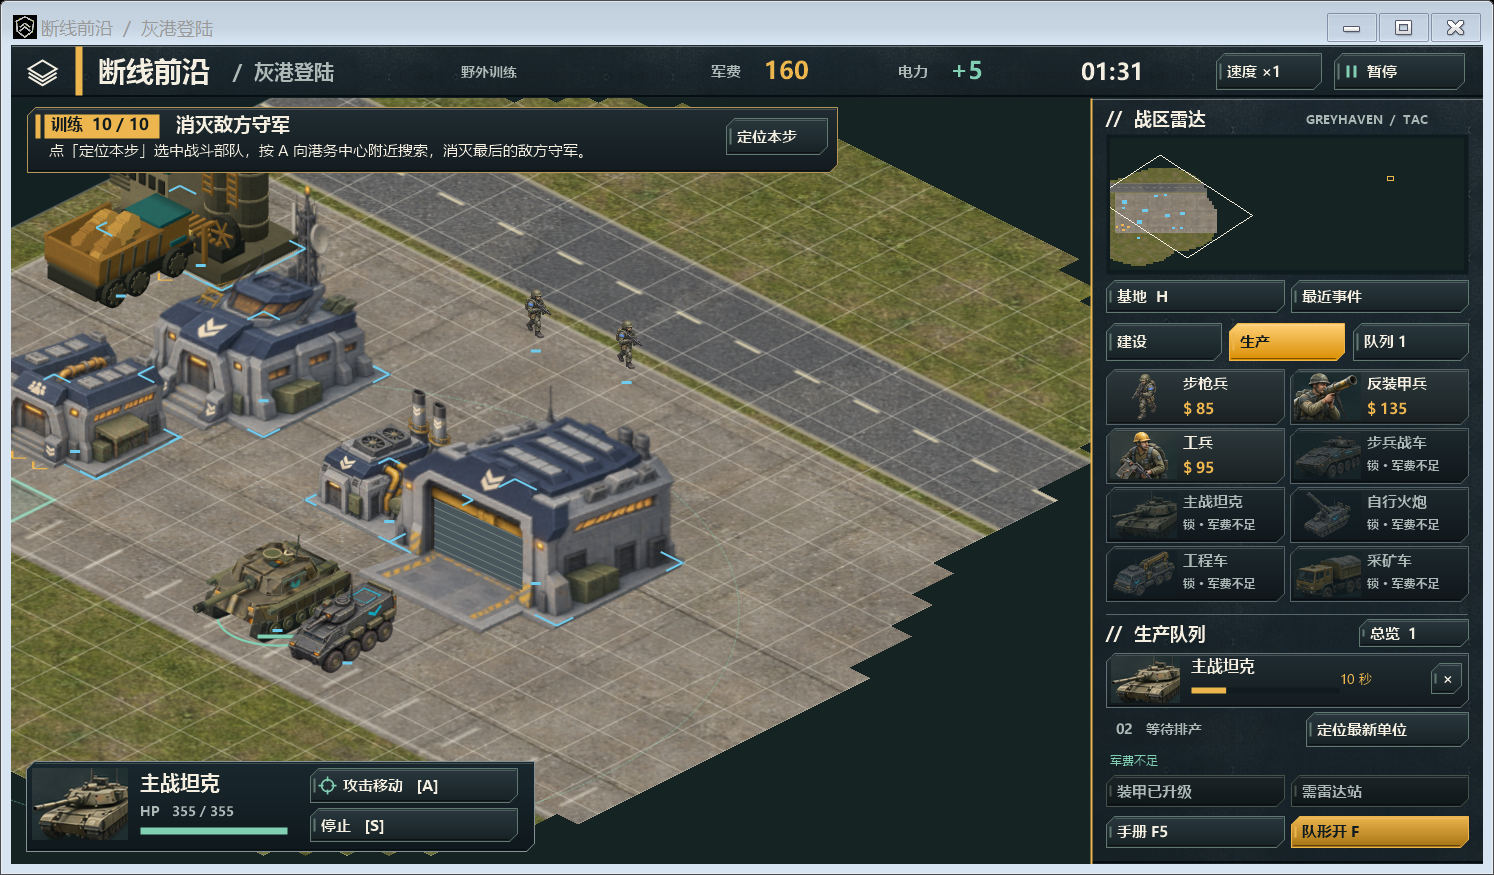
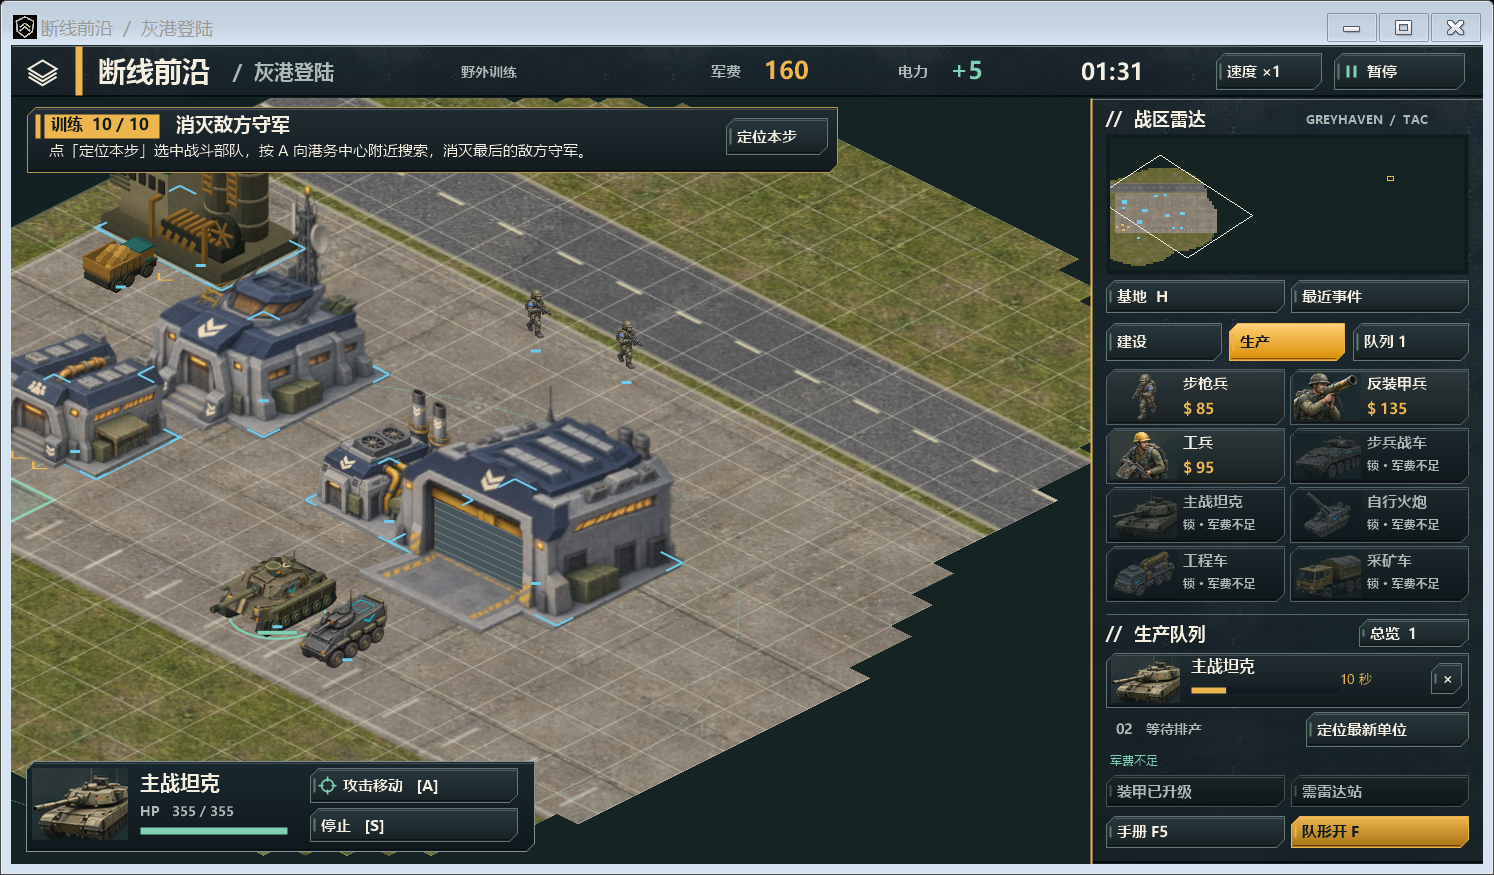
缩小矿车及装甲车辆，修复密集矿区反复绕车停滞

Changed region(s): [[0.1232, 0.6171, 0.2771, 0.7714], [0.0308, 0.216, 0.1539, 0.3703]]

diff --git a/src/Campaign.cs b/src/Campaign.cs
@@ -7,6 +7,7 @@ namespace Greyhaven {
 public class TypeInfo {
  public string Key,Name,Producer; public int Price,Hp,Hit,Range,Size; public float Speed,Seconds,Reload;
  public float LockRange {get{return Hit==0?0:Building?Range:Range+3*Campaign.Tile;}}
+ public float Clearance {get{return Foot?5:Key=="miner"?5.25f:8.8f;}}
  public bool Building {get{return Speed==0;}} public bool Foot {get{return Key=="squad"||Key=="at"||Key=="engineer";}}
  public TypeInfo(string key,string name,string from,int price,int hp,int hit,int range,int size,float speed,float time,float reload){
   Key=key;Name=name;Producer=from;Price=price;Hp=hp;Hit=hit;Range=range;Size=size;Speed=speed;Seconds=time;Reload=reload;
@@ -41,12 +42,12 @@ public partial class Campaign {
   new TypeInfo("squad","步枪兵","barracks",85,110,10,73,58,32,5,1.25f),
   new TypeInfo("at","反装甲兵","barracks",135,85,30,115,61,29,8,2.5f),
   new TypeInfo("engineer","工兵","barracks",95,90,0,0,58,34,6,1),
-  new TypeInfo("ifv","步兵战车","factory",185,210,16,96,82,45,8,1.3f),
-  new TypeInfo("tank","主战坦克","factory",290,355,38,115,94,36,12,2),
-  new TypeInfo("arty","自行火炮","factory",315,150,54,222,87,31,13,3.5f),
-  new TypeInfo("mcv","工程车","hq",340,290,0,0,91,31,13,0),
+  new TypeInfo("ifv","步兵战车","factory",185,210,16,96,66,45,8,1.3f),
+  new TypeInfo("tank","主战坦克","factory",290,355,38,115,75,36,12,2),
+  new TypeInfo("arty","自行火炮","factory",315,150,54,222,70,31,13,3.5f),
+  new TypeInfo("mcv","工程车","hq",340,290,0,0,73,31,13,0),
   new TypeInfo("refinery","矿石精炼厂","hq",390,720,0,0,136,0,9,0),
-  new TypeInfo("miner","采矿车","factory",195,310,0,0,89,38,9,0)};
+  new TypeInfo("miner","采矿车","factory",195,310,0,0,44,38,9,0)};
  public static TypeInfo Info(string k){return Array.Find(Types,t=>t.Key==k);}
  public readonly List<Piece> Units=new List<Piece>();public readonly List<Shot> Shots=new List<Shot>();
  public readonly Site[] Sites={new Site("港务中心",1330,292,1265,227)};
@@ -126,11 +127,14 @@ public partial class Campaign {
  }
  public void Load(Piece car){
   if(car==null||car.T.Key!="ifv"||!car.Alive)return;var cargo=Units.FirstOrDefault(o=>o.Alive&&o.Carrier==car);
-  if(cargo!=null){PointF drop;if(Exit(car,out drop)){cargo.Carrier=null;cargo.P=drop;Radio="步兵已下车。";}else Radio="周围缺少下车空间。";return;}
+  if(cargo!=null){PointF drop;if(Exit(car,cargo.T,out drop)){cargo.Carrier=null;cargo.P=drop;Radio="步兵已下车。";}else Radio="周围缺少下车空间。";return;}
   var foot=Live(car.Side).Where(o=>o.T.Foot&&Dist(o.P,car.P)<70).OrderBy(o=>Dist(o.P,car.P)).FirstOrDefault();
   if(foot==null){Radio="先把一名步兵移到战车旁。";return;}Halt(foot);foot.Carrier=car;Radio=foot.T.Name+"已登车。";
  }
- bool Exit(Piece o,out PointF p){
+ bool ExitClear(Piece source,TypeInfo exiting,PointF point){
+  return !Blocked(point,exiting.Clearance,null)&&!Units.Any(u=>u!=source&&u.Deployed&&!u.T.Building&&Dist(u.P,point)<exiting.Clearance+u.T.Clearance);
+ }
+ bool Exit(Piece o,TypeInfo exiting,out PointF p){
   if(o.T.Key=="barracks"&&o.Berths.Count>0){
    p=o.Berths[0];if(BerthClear(o,p))return true;
    var alt=FreeBerth(o);if(alt.HasValue){p=alt.Value;o.Berths[0]=p;return true;}
@@ -139,12 +143,12 @@ public partial class Campaign {
   if(o.T.Building){
    var gate=Gate(Footprint(o.T,o.P));foreach(float offset in new[]{0f,-.31f,.31f}){
     var candidate=new PointF(o.P.X+gate.Width*offset,gate.Bottom-6);
-    if(!Blocked(candidate,11,null)&&!Units.Any(u=>u!=o&&u.Deployed&&!u.T.Building&&Dist(u.P,candidate)<17)){p=candidate;return true;}
+    if(ExitClear(o,exiting,candidate)){p=candidate;return true;}
    }p=o.P;return false;
   }
   for(int j=0;j<24;j++){double a=(o.Dir+j%8*2)*Math.PI/8;float d=(o.T.Building?Radius(o.T)+20:27)+j/8*19;
    p=new PointF(o.P.X+(float)Math.Sin(a)*d,o.P.Y+(float)Math.Cos(a)*d*.85f);
-   var candidate=p;if(!Blocked(candidate,11,null)&&!Units.Any(u=>u!=o&&u.Deployed&&!u.T.Building&&Dist(u.P,candidate)<14))return true;
+   var candidate=p;if(ExitClear(o,exiting,candidate))return true;
   }p=o.P;return false;
  }
  void Kill(Piece o){if(o.T.Building)Changed();o.Hp=0;o.Path.Clear();o.Queue.Clear();o.Berths.Clear();foreach(var c in Units.Where(c=>c.Carrier==o)){c.Carrier=null;c.P=o.P;c.Hp=0;}
@@ -184,7 +188,7 @@ public partial class Campaign {
   if(o.T.Key=="refinery")RunRefinery(o,dt);
   if(o.Mining)RunMiner(o,dt);
   if(o.Queue.Count>0){var t=o.Queue.Peek();o.Work=Math.Min(t.Seconds,o.Work+dt*(powered?1:.45f));
-   if(o.Work>=t.Seconds){PointF p;if(Exit(o,out p)){var u=Spawn(t.Key,o.Side,p.X,p.Y);u.Dir=o.Dir;u.Turn=o.Dir;u.Rollout=.6f;o.Door=1;o.Work=0;o.Queue.Dequeue();if(o.Berths.Count>0)o.Berths.RemoveAt(0);if(u.T.Key!="miner")RallyNewUnit(o,u);if(o.Side==0){LastReady=u;ReadyAt=Time;if(Time-lastStrike>3)SetEvent(u.P,u.T.Name+"出列");if(t.Key=="squad")InfantryDelivered++;if(t.Key=="ifv")VehiclesDelivered++;Radio=t.Name+"已从"+o.T.Name+" #"+o.Id+" 出列。";}}}}
+   if(o.Work>=t.Seconds){PointF p;if(Exit(o,t,out p)){var u=Spawn(t.Key,o.Side,p.X,p.Y);u.Dir=o.Dir;u.Turn=o.Dir;u.Rollout=.6f;o.Door=1;o.Work=0;o.Queue.Dequeue();if(o.Berths.Count>0)o.Berths.RemoveAt(0);if(u.T.Key!="miner")RallyNewUnit(o,u);if(o.Side==0){LastReady=u;ReadyAt=Time;if(Time-lastStrike>3)SetEvent(u.P,u.T.Name+"出列");if(t.Key=="squad")InfantryDelivered++;if(t.Key=="ifv")VehiclesDelivered++;Radio=t.Name+"已从"+o.T.Name+" #"+o.Id+" 出列。";}}}}
   if(o.T.Key=="engineer"&&o.Cool<=0){
    var wounded=Live(o.Side).FirstOrDefault(f=>!f.T.Foot&&f.Hp<f.T.Hp&&Dist(o.P,f.P)<67);
    if(wounded!=null){wounded.Hp=Math.Min(wounded.T.Hp,wounded.Hp+13);o.Cool=1;}
@@ -201,7 +205,7 @@ public partial class Campaign {
     var step=Avoid(o,next);
     if(Dist(o.P,step)>.001f){o.Turn=Bearing(o.P,step);o.Dir=(int)Math.Round(o.Turn)%16;o.P=step;}
    }
-   if(o.Path.Count>0&&(Dist(o.P,p)<(o.T.Foot?.1f:.001f)||(o.Path.Count==1&&Dist(o.P,p)<9&&Units.Any(u=>u!=o&&u.Deployed&&Dist(u.P,p)<15))))o.Path.Dequeue();}
+   if(o.Path.Count>0&&(Dist(o.P,p)<(o.T.Foot?.1f:.001f)||(!o.Mining&&o.Path.Count==1&&Dist(o.P,p)<9&&Units.Any(u=>u!=o&&u.Deployed&&Dist(u.P,p)<15))))o.Path.Dequeue();}
  }
  bool VisibleTo(int side,Piece e){return Explored(side,e.P);}
  public int Remaining(int side){return Units.Count(o=>o.Alive&&o.Side==side);}

diff --git a/src/OreEconomy.cs b/src/OreEconomy.cs
@@ -31,7 +31,7 @@ public partial class Campaign {
  }
  void RunRefinery(Piece plant,float dt){
   if(!plant.StarterDelivered){
-   PointF exit;if(Exit(plant,out exit)){Spawn("miner",plant.Side,exit.X,exit.Y);plant.StarterDelivered=true;}
+   PointF exit;if(Exit(plant,Info("miner"),out exit)){Spawn("miner",plant.Side,exit.X,exit.Y);plant.StarterDelivered=true;}
   }
   if(plant.Door>0)plant.MillPhase=(plant.MillPhase+dt*1.2f)%1;
  }
@@ -54,22 +54,31 @@ public partial class Campaign {
  }
  // A stopped vehicle may occupy the vein center or one side of a loading gate.
  // Reserve the actual service position, not just a nominal map coordinate.
- bool RouteToWork(Piece truck,PointF center,bool unloading,bool detour){
+ bool RouteToWork(Piece truck,PointF center,bool unloading){
   PointF[] offsets=unloading?DockOffsets:MineOffsets;
+  var blocks=MineTraffic(truck,center);
   foreach(var offset in offsets){
    var dest=new PointF(center.X+offset.X,center.Y+offset.Y);
-   if(Units.Any(u=>u!=truck&&u.Deployed&&!u.T.Building&&(Dist(u.P,dest)<19||
-      (u.Mining&&u.Path.Count>0&&Dist(u.Path.Last(),dest)<18))))continue;
-   RectangleF[] blocks=null;
-   if(detour)blocks=Units.Where(u=>u!=truck&&u.Deployed&&!u.T.Building&&Dist(u.P,truck.P)<125).Select(u=>{
-    float pad=Math.Min(Clearance(u)+Clearance(truck),Math.Max(Math.Abs(truck.P.X-u.P.X),Math.Abs(truck.P.Y-u.P.Y))-.3f);
-    return pad>1?new RectangleF(u.P.X-pad,u.P.Y-pad,2*pad,2*pad):RectangleF.Empty;
-   }).Where(r=>!r.IsEmpty).ToArray();
+   if(blocks!=null&&blocks.Any(r=>r.Contains(dest)))continue;
+   if(Units.Any(u=>u!=truck&&u.Deployed&&!u.T.Building&&(Dist(u.P,dest)<truck.T.Clearance+u.T.Clearance+1||
+      (u.Mining&&u.Path.Count>0&&Dist(u.Path.Last(),dest)<truck.T.Clearance+u.T.Clearance+1))))continue;
    if(PlanRoute(truck,dest,blocks)){truck.WorkPoint=dest;return true;}
   }return false;
  }
+ // Keep neighboring blockers together on every replan; going around only the last
+ // vehicle can send a truck straight back into the previous one.
+ RectangleF[] MineTraffic(Piece truck,PointF destination){
+  var blocks=new List<RectangleF>();
+  foreach(var u in Units){
+   if(u==truck||!u.Deployed||u.T.Building)continue;
+   if(Dist(truck.P,u.P)>140&&Dist(destination,u.P)>90)continue;
+   float gap=Math.Max(Math.Abs(truck.P.X-u.P.X),Math.Abs(truck.P.Y-u.P.Y));
+   float pad=Math.Min(gap-.25f,(truck.T.Clearance+u.T.Clearance)*.78f+1);
+   if(pad>0)blocks.Add(new RectangleF(u.P.X-pad,u.P.Y-pad,2*pad,2*pad));
+  }return blocks.Count==0?null:blocks.ToArray();
+ }
  static readonly PointF[] DockOffsets={PointF.Empty,new PointF(-23,0),new PointF(23,0)};
- static readonly PointF[] MineOffsets={PointF.Empty,new PointF(22,0),new PointF(-22,0),new PointF(0,22),new PointF(0,-22)};
+ static readonly PointF[] MineOffsets={PointF.Empty,new PointF(22,0),new PointF(-22,0),new PointF(0,22),new PointF(0,-22),new PointF(-21,-21),new PointF(21,-21),new PointF(-21,21),new PointF(21,21)};
  bool TrafficStalled(Piece truck,float dt){
   if(truck.Path.Count==0){truck.TrafficSampleTime=0;return false;}
   if(truck.TrafficSampleTime<=0){truck.TravelSample=truck.P;truck.TrafficSampleTime=1.7f;}
@@ -78,8 +87,7 @@ public partial class Campaign {
  }
  void RunMiner(Piece truck,float dt){
   truck.Dispatch-=dt;
-  bool stalled=TrafficStalled(truck,dt);
-  if(stalled){truck.Path.Clear();truck.Dock=null;truck.Dispatch=0;}
+  if(TrafficStalled(truck,dt)){truck.Path.Clear();truck.Dock=null;truck.Dispatch=0;}
   if(truck.Cargo>=LoadValue-.01f){truck.Cargo=LoadValue;truck.Returning=true;}
   if(truck.Returning){
    var plant=truck.Dock;
@@ -94,12 +102,12 @@ public partial class Campaign {
    if(truck.Path.Count>0||truck.Dispatch>0)return;
    truck.Dispatch=1;
    foreach(var dest in Live(truck.Side).Where(o=>o.T.Key=="refinery"&&DockFree(truck,o)).OrderBy(o=>o==plant?0:Dist(truck.P,o.P))){
-    if(RouteToWork(truck,DockPoint(dest),true,stalled)){truck.Dock=dest;return;}
+    if(RouteToWork(truck,DockPoint(dest),true)){truck.Dock=dest;return;}
    }
    truck.Dock=null;return;
   }
   var patch=truck.Patch;
-  if(patch!=null&&patch.Stock>.01f&&Dist(truck.P,truck.WorkPoint)<5&&Dist(truck.WorkPoint,patch.P)<=23){
+  if(patch!=null&&patch.Stock>.01f&&Dist(truck.P,truck.WorkPoint)<5&&Dist(truck.WorkPoint,patch.P)<=30){
    truck.Path.Clear();float take=Math.Min(Math.Min(patch.Stock,LoadValue-truck.Cargo),dt*36);
    truck.Cargo+=take;patch.Stock-=take;if(truck.Side==0&&take>0)FirstOreCollected=true;
    if(patch.Stock<=.01f){truck.Patch=null;truck.Returning=truck.Cargo>.01f;}
@@ -108,7 +116,7 @@ public partial class Campaign {
   if(truck.Dispatch>0||(truck.Path.Count>0&&!truck.Surveying))return;
   truck.Dispatch=1;truck.Patch=null;
   foreach(var dest in Ore.Where(p=>p.Stock>.01f&&Explored(truck.Side,p.P)).OrderBy(p=>p==patch?0:WorkingPatch(truck,p)?1:2).ThenBy(p=>Dist(truck.P,p.P))){
-   if(RouteToWork(truck,dest.P,false,stalled)){truck.Patch=dest;truck.Surveying=false;return;}
+   if(RouteToWork(truck,dest.P,false)){truck.Patch=dest;truck.Surveying=false;return;}
   }
   if(truck.Cargo>.01f){truck.Returning=true;truck.Surveying=false;truck.Path.Clear();return;}
   if(truck.Path.Count==0)SurveyForOre(truck);

diff --git a/tests/CampaignChecks.cs b/tests/CampaignChecks.cs
@@ -47,7 +47,7 @@ class CampaignChecks {
   var w=new Campaign(true);var mover=w.Spawn("tank",0,300,443);var dest=new PointF(500,443);
   Check(w.Move(mover,dest,false)&&mover.Path.Count==1,"clear ground is one straight segment");
   var obs=w.Spawn("factory",0,395,444);var box=Campaign.Footprint(obs.T,obs.P);Check(box.Width==96&&box.Height==72&&box.Left%24==0&&box.Top%24==0,"factory footprint aligned");
-  var expanded=box;expanded.Inflate(10,10);int bends=0;
+  var expanded=box;expanded.Inflate(mover.T.Clearance-.1f,mover.T.Clearance-.1f);int bends=0;
   for(int i=0;i<180;i++){w.Tick(.1f);bends=Math.Max(bends,mover.Path.Count);Check(!expanded.Contains(mover.P),"no penetration after new construction");}
   Check(bends>=2&&bends<=5&&Campaign.Dist(mover.P,dest)<1,"replan around existing walls then arrive");
   Check(!w.Move(mover,new PointF(39,30),false),"water blocked");
@@ -72,7 +72,7 @@ class CampaignChecks {
   var outpost=new PointF(1580,870);Check(w.Move(a,outpost,false),"extended southern flank navigable");Wait(w,55);Check(Campaign.Dist(a.P,outpost)<2,"expanded area reachable");
   var v1=w.Spawn("tank",0,300,810);var v2=w.Spawn("ifv",0,510,810);w.Move(v1,new PointF(510,810),false);w.Move(v2,new PointF(300,810),false);
   float min=999;for(int i=0;i<400;i++){w.Tick(.05f);min=Math.Min(min,Campaign.Dist(v1.P,v2.P));}
-  Check(min>=15&&v1.P.X>504&&v2.P.X<306,"head-on vehicles must pass, not overlap");
+  Check(min>=(v1.T.Clearance+v2.T.Clearance)*.78f-.01f&&v1.P.X>504&&v2.P.X<306,"head-on vehicles must pass, not overlap");
   Console.WriteLine("Permanent shroud, formation pacing, expanded flank and head-on passing checks passed.");
  }
  static void InfantryWaves(){
@@ -217,8 +217,31 @@ class CampaignChecks {
   w=new Campaign(true);w.Units[0].Hp=0;w.Tick(.1f);Check(!w.Lost,"surviving infantry stay in play");
   foreach(var o in w.Live(0).ToArray())o.Hp=0;w.Tick(.1f);Check(w.Lost&&!w.Won,"player elimination");
  }
+ static void CrowdedOreRun(float dt){
+  var w=new Campaign(true);w.Ore.Clear();var vein=new OrePatch(460,802,18000);w.Ore.Add(vein);
+  w.Spawn("refinery",0,360,660);Wait(w,.5f);
+  for(int x=-1;x<=1;x+=2)for(int y=-1;y<=1;y+=2)w.Spawn("mcv",0,vein.P.X+12*x,vein.P.Y+12*y);
+  w.Spawn("squad",0,vein.P.X,vein.P.Y);
+  var trucks=new[]{w.Live(0).Single(u=>u.T.Key=="miner"),w.Spawn("miner",0,400,710),w.Spawn("miner",0,418,727),w.Spawn("miner",0,475,727)};
+  var receipts=new int[trucks.Length];foreach(var u in trucks)w.MineOrder(u,vein,null);
+  for(int i=0;i<(int)Math.Ceiling(180/dt);i++){
+   var before=trucks.Select(t=>t.Cargo).ToArray();w.Tick(dt);
+   for(int j=0;j<trucks.Length;j++)if(before[j]>0&&trucks[j].Cargo==0)receipts[j]++;
+  }
+  Console.WriteLine("Crowded mine shipments per truck: "+String.Join(", ",receipts));
+  Check(receipts.All(n=>n>=2),"mine traffic: "+String.Join(" | ",trucks.Select(u=>u.P+" cargo="+u.Cargo+" returning="+u.Returning+" path="+String.Join(";",u.Path)+" goal="+u.WorkPoint+" turn="+u.Turn)));
+  Check(Math.Abs(vein.Initial-vein.Stock-trucks.Sum(t=>t.Cargo)-w.OreReceipts[0])<4,"cargo conservation");
+ }
+ static void NarrowGate(){
+  var w=new Campaign(true);var plant=w.Spawn("factory",0,520,650);var lot=Campaign.Footprint(plant.T,plant.P);
+  var miner=w.Spawn("miner",0,lot.Left-35,lot.Top-6.5f);var goal=new PointF(lot.Right+28,lot.Top-6.5f);
+  w.Halt(miner);Check(w.Move(miner,goal,false)&&miner.Path.Count==1,"miner fits past building edge");
+  var tank=w.Spawn("tank",0,lot.Left-35,lot.Top-24);
+  Check(!w.Move(tank,new PointF(plant.P.X,lot.Top-6.5f),false),"tank must still respect its wider hull");
+  Wait(w,12);Check(Campaign.Dist(miner.P,goal)<.1f,"miner completed tight passage");
+ }
  static int Main(){try{Run();return 0;}catch(Exception ex){Console.Error.WriteLine(ex.Message);return 1;}}
- static void Run(){MinerMidRouteBlock();EnemySupplyChain();MinerTraffic();ExhaustedFields();ProspectChecks();OreChecks();ContactChecks();StreetChecks();InfantryWaves();HeadingChecks();ReconAndMarch();Navigation();Training();Play(true);Play(false);EliminationChecks();
+ static void Run(){NarrowGate();CrowdedOreRun(.05f);CrowdedOreRun(1f/60);MinerMidRouteBlock();EnemySupplyChain();MinerTraffic();ExhaustedFields();ProspectChecks();OreChecks();ContactChecks();StreetChecks();InfantryWaves();HeadingChecks();ReconAndMarch();Navigation();Training();Play(true);Play(false);EliminationChecks();
   var w=new Campaign();var car=w.Spawn("ifv",0,212,431);w.Load(car);Check(w.Units.Any(o=>o.Carrier==car),"embark");w.Load(car);Check(!w.Units.Any(o=>o.Carrier==car),"disembark");
   Console.WriteLine("All checks passed.");}
 }

diff --git a/src/FieldOrders.cs b/src/FieldOrders.cs
@@ -56,7 +56,9 @@ public partial class Campaign {
   }return assigned.Count;
  }
  public bool SetRally(Piece src,PointF dest){
-  if(src==null||!src.Deployed||src.Side!=0||src.T.Key=="refinery"||!HasGate(src.T)||Blocked(dest,11,null)||!ParkingAllowed(src.Side,dest))return false;
+  if(src==null||!src.Deployed||src.Side!=0||src.T.Key=="refinery"||!HasGate(src.T)||!ParkingAllowed(src.Side,dest))return false;
+  float pad=Types.Where(t=>!t.Building&&t.Producer==src.T.Key).Max(t=>t.Clearance);
+  if(Blocked(dest,pad,null))return false;
   src.Rally=dest;Radio=src.T.Name+"的集结点已设置。";return true;
  }
  void RallyNewUnit(Piece source,Piece unit){

diff --git a/src/Navigation.cs b/src/Navigation.cs
@@ -28,7 +28,7 @@ public partial class Campaign {
   if(t.Key=="barracks"&&Units.Any(o=>o.Alive&&o.Path.Count>0&&reserve.Contains(o.Path.Last())))return false;
   return !Sites.Any(s=>Inflated(r,28).Contains(s.P))&&(skip!=null||Live(side).Any(o=>o.T.Key=="hq"&&Dist(o.P,mid)<265));
  }
- static float Clearance(Piece o){return o.T.Foot?5:11;}
+ static float Clearance(Piece o){return o.T.Clearance;}
  IEnumerable<RectangleF> Obstacles(){
   foreach(var site in Sites)yield return site.Body;
   foreach(var r in YardWalls)yield return r;

diff --git a/src/DeploymentOrders.cs b/src/DeploymentOrders.cs
@@ -13,6 +13,9 @@ public partial class Campaign {
   if(obstacle==null)return next;
   if(o.TrafficWait<=0){
    o.TrafficWait=.65f;
+   if(o.Mining){
+    var destination=o.Path.Last();PlanRoute(o,destination,MineTraffic(o,destination));return o.P;
+   }
    // Reserve the blocking vehicle's immediate envelope. Keep the starting
    // contact outside the temporary rectangle so a tank can reverse out.
    float gap=Math.Max(Math.Abs(o.P.X-obstacle.P.X),Math.Abs(o.P.Y-obstacle.P.Y));

diff --git a/src/AssemblyInfo.cs b/src/AssemblyInfo.cs
@@ -2,5 +2,5 @@ using System.Reflection;
 [assembly: AssemblyTitle("断线前沿")]
 [assembly: AssemblyProduct("断线前沿 · 灰港登陆")]
 [assembly: AssemblyDescription("现代战争单人即时战略游戏")]
-[assembly: AssemblyVersion("0.13.0.0")]
-[assembly: AssemblyFileVersion("0.13.0.0")]
+[assembly: AssemblyVersion("0.14.0.0")]
+[assembly: AssemblyFileVersion("0.14.0.0")]

diff --git a/README.md b/README.md
@@ -1,7 +1,7 @@
 # 断线前沿 · 灰港登陆
-现代战争单人即时战略游戏，Windows x64 桌面版 v0.13.0。
+现代战争单人即时战略游戏，Windows x64 桌面版 v0.14.0。
 
-**开始游戏**　从 [v0.13.0 发布页](https://github.com/Wenxin666-code/greyhaven-rts/releases/tag/v0.13.0) 下载可执行文件，或在本机项目根目录双击 `断线前沿.exe`。程序在独立窗口中运行，使用 Windows 自带的 .NET Framework 4.x。地图和全部方向图集已嵌入程序，可单独复制 exe，离线游玩。
+**开始游戏**　从 [v0.14.0 发布页](https://github.com/Wenxin666-code/greyhaven-rts/releases/tag/v0.14.0) 下载可执行文件，或在本机项目根目录双击 `断线前沿.exe`。程序在独立窗口中运行，使用 Windows 自带的 .NET Framework 4.x。地图和全部方向图集已嵌入程序，可单独复制 exe，离线游玩。
 
 [查看主界面](docs/主界面.png) · [查看选关页](docs/关卡选择.png)
 
@@ -12,13 +12,13 @@
 战场右侧控制台集中显示雷达、建设、生产和队列。当前订单、进度与下一单常驻右侧；点「队列」可切换设施和取消订单。左下角根据选中单位显示生命值与可用指令。暂停后可重开当前关卡或返回选关。
 
 ## 镜头与编队
-鼠标在战场视口的边缘短暂停留即可连续滚屏，越靠边越快，四角可斜向移动。游戏有焦点时，鼠标越出窗口也能继续滚屏；移回中央或普通侧栏、暂停或切换窗口即停止。也可滚轮缩放、中键拖动、方向键平移或点击小地图定位。按 **G** 显示地面格线和建筑四角。七种基地设施与港务中心都按各自占地校准，四种车辆沿街道的四个正反方向或它们之间的四个方向行驶。同街先走长直段，换街优先在交叉口转向。主战坦克的 64 个车身视图中，八个用于直行，其余用于转动。[查看路口行驶实录](docs/路口行驶.webp)。[查看角度验收图](docs/角度校准.png)。港务中心是中立地标。新手教官的「定位本步」也会把镜头带到任务地点。
+鼠标在战场视口的边缘短暂停留即可连续滚屏，越靠边越快，四角可斜向移动。游戏有焦点时，鼠标越出窗口也能继续滚屏；移回中央或普通侧栏、暂停或切换窗口即停止。也可滚轮缩放、中键拖动、方向键平移或点击小地图定位。按 **G** 显示地面格线和建筑四角。七种基地设施与港务中心都按各自占地校准，五种车辆沿街道的四个正反方向或它们之间的四个方向行驶。同街先走长直段，换街优先在交叉口转向。主战坦克的 64 个车身视图中，八个用于直行，其余用于转动。[查看路口行驶实录](docs/路口行驶.webp)。[查看角度验收图](docs/角度校准.png)。港务中心是中立地标。新手教官的「定位本步」也会把镜头带到任务地点。
 
 混编下达地面命令时，默认由装甲在前、工程与火炮靠后，以队内最慢单位速度推进。按 F 切换随后发出的行军命令是否同步行速，数字编队仍可单独存取。选中已完工的指挥部、兵营或车辆工厂，左键空地设置集结点。受前置条件限制的生产卡会变暗并列出缺项。
 
 ## 矿区与军费
 玩家须先展开指挥部、建成电站，再花 390 军费放置矿石精炼厂。精炼厂完工且出口畅通后，附带的首辆矿车才从厂门驶出。金色矿石在主地图和小地图上可见。矿车优先前往最近的已发现、可达且有空位的矿点；找不到时会探开未知地形，发现矿石后再驶过去采集。满载 180 后返回己方精炼厂，停靠卸货才入账。每个矿点有 4200 矿量，采完不会再生；最后不足一车的矿也会运回。停止采矿、拦截运输线或摧毁精炼厂都会影响收入；常规军费来自矿车交货。正式战役敌方以工程车和 1150 军费起步，自行展开、建电站和精炼厂。首笔卸货收入到账后，再建兵营、训练步兵、建车辆工厂并付费升级装甲。
-选中矿车点矿石指定矿点，点己方精炼厂可提前交货。S 停工或下达普通移动后，可用指令席的「恢复自动采矿」接着工作。扩建精炼厂需 390 军费并附带一辆矿车，车辆工厂可用 195 军费补造。每座厂同时接待一辆矿车。矿点中心和卸货位被占时，矿车改用可达的侧面；行进受阻时重新寻路。[查看实际采集与返厂动画](docs/矿车返厂.webp)。
+选中矿车点矿石指定矿点，点己方精炼厂可提前交货。S 停工或下达普通移动后，可用指令席的「恢复自动采矿」接着工作。扩建精炼厂需 390 军费并附带一辆矿车，车辆工厂可用 195 军费补造。每座厂同时接待一辆矿车。矿车的车身尺寸约为 v0.13 的一半，其他四种载具约为原来的八成。采集、卸货、出厂与避让均按车型留空；矿点正面拥堵时矿车也可从斜侧作业。[查看实际采集与返厂动画](docs/矿车返厂.webp)。
 
 采矿、返厂及随厂配车的操作参考 [Westwood《红色警戒 2》手册](https://manualzz.com/doc/24314810/westwood-studios-red-alert-2-user-manual)。
 

diff --git a/CHANGELOG.md b/CHANGELOG.md
@@ -1,5 +1,11 @@
 # 版本记录
 
+## v0.14.0 · 缩小载具与拥堵矿区通行
+
+- 采矿车的线性显示尺寸由 89 调到 44，导航半径由 11 调到 5.25。步兵战车、主战坦克、自行火炮和工程车的显示尺寸均缩小约 20%，导航半径改为 8.8。空载、载矿、转向、残骸和点选共用相应尺寸。
+- 出厂和作业点按实际车型留空。矿车绕行时同时考虑附近车辆，避免绕过一辆又撞上另一辆；新增对角采集位置，并避免矿车尚未到达作业位置就因附近有车而提前结束路线。
+- 回归测试覆盖贴墙通行、迎面会车、途中封堵厂门、四辆矿车共采一个被占据的矿点。在每秒 20 次、60 次更新的两组 180 秒模拟中，逐车核验反复交货和矿量守恒，并复测十步教程及两种歼灭战打法。
+
 ## v0.13.0 · 单兵与歼灭战
 
 - 步枪兵、反装甲兵、工兵一份订单训练一人。行军、点选、登车和倒地均使用同一名单兵形象，沿用原有单个作战单位的价格和能力。
